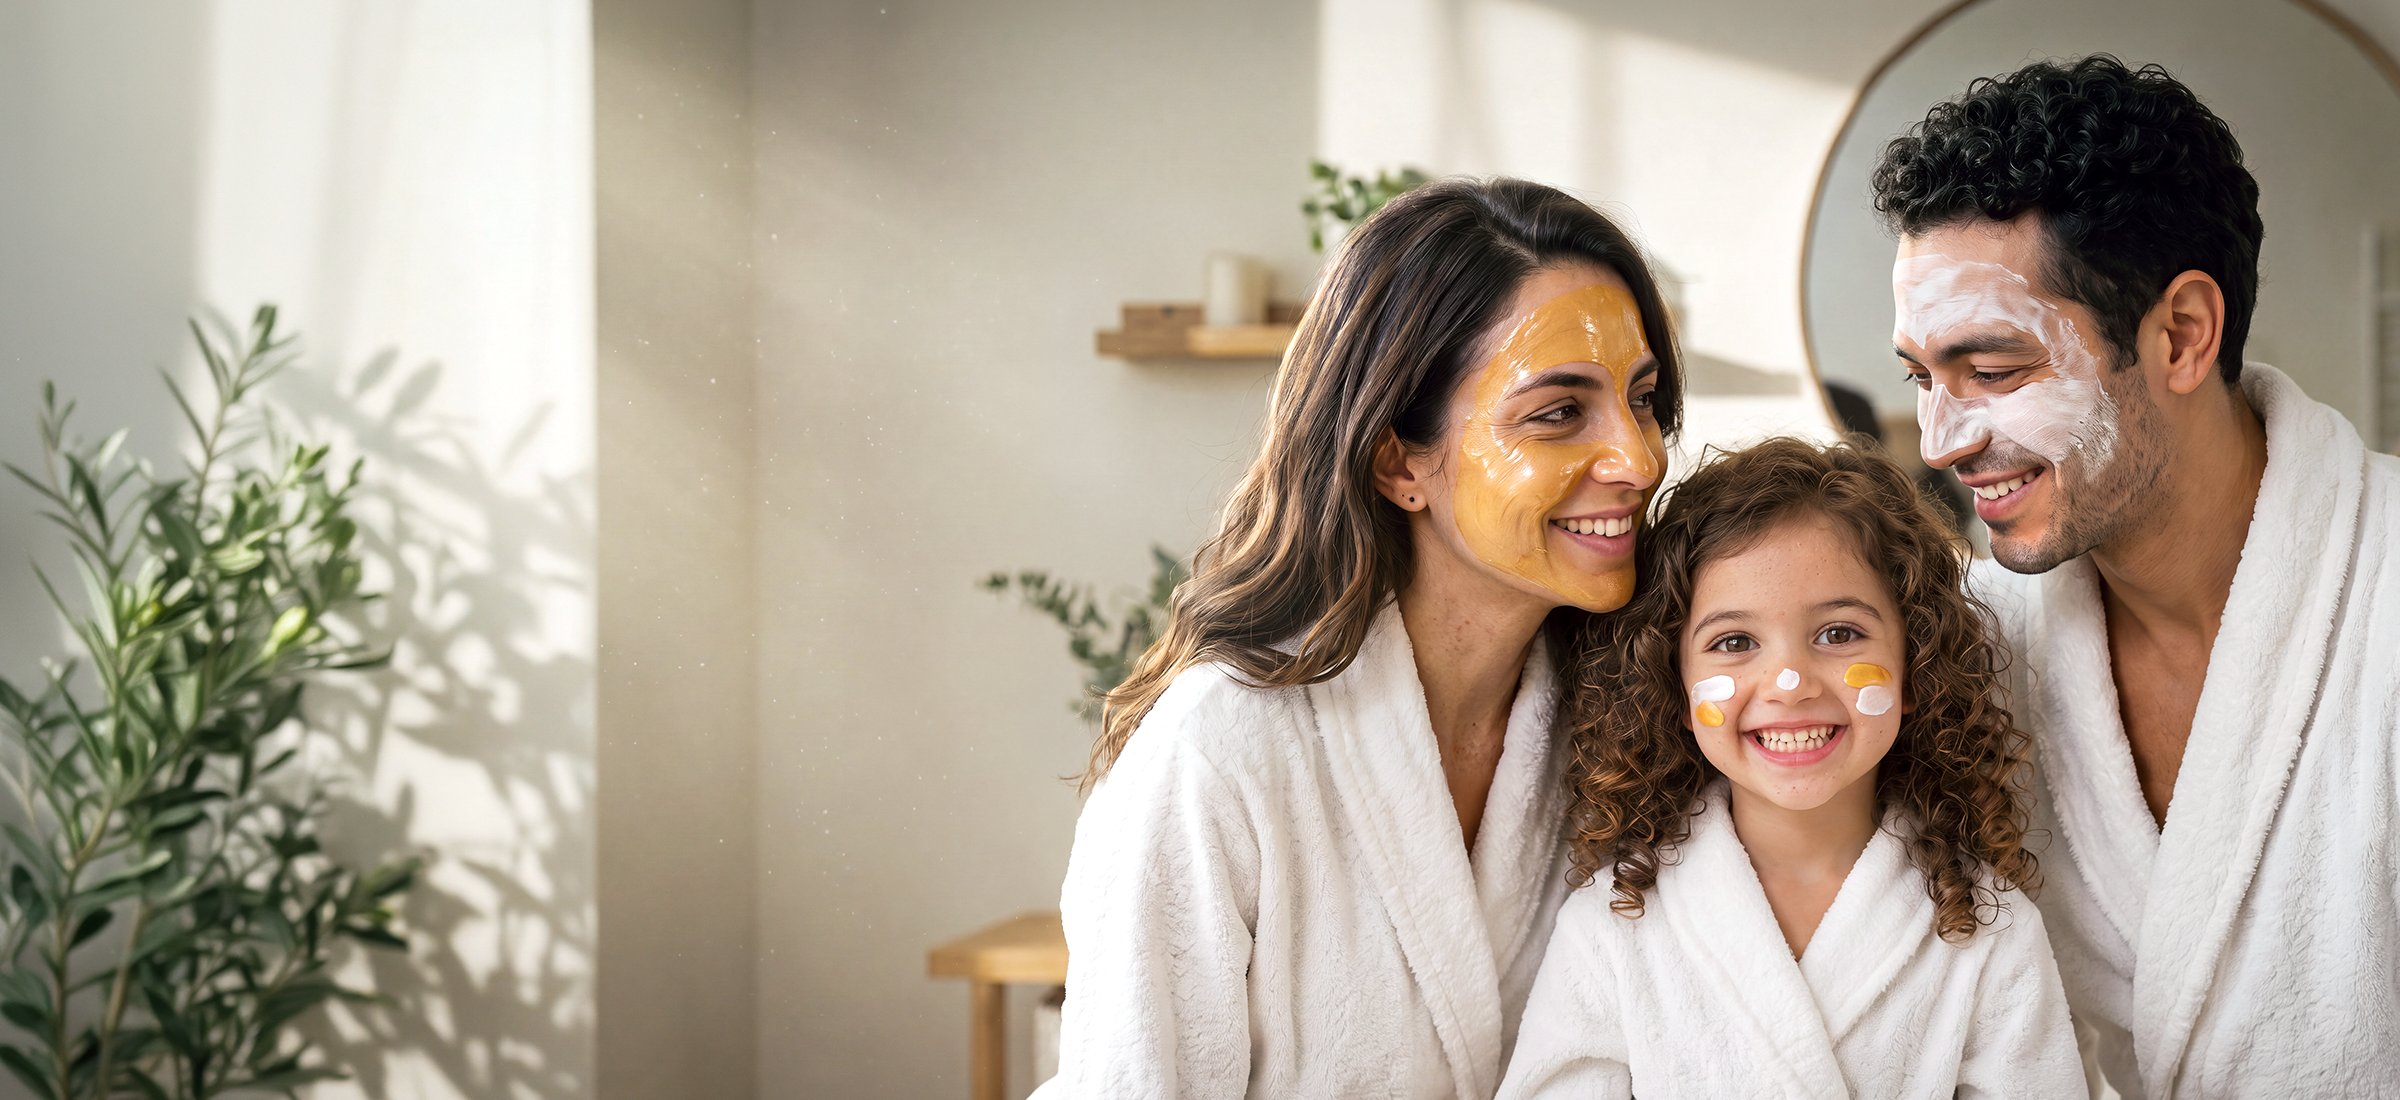
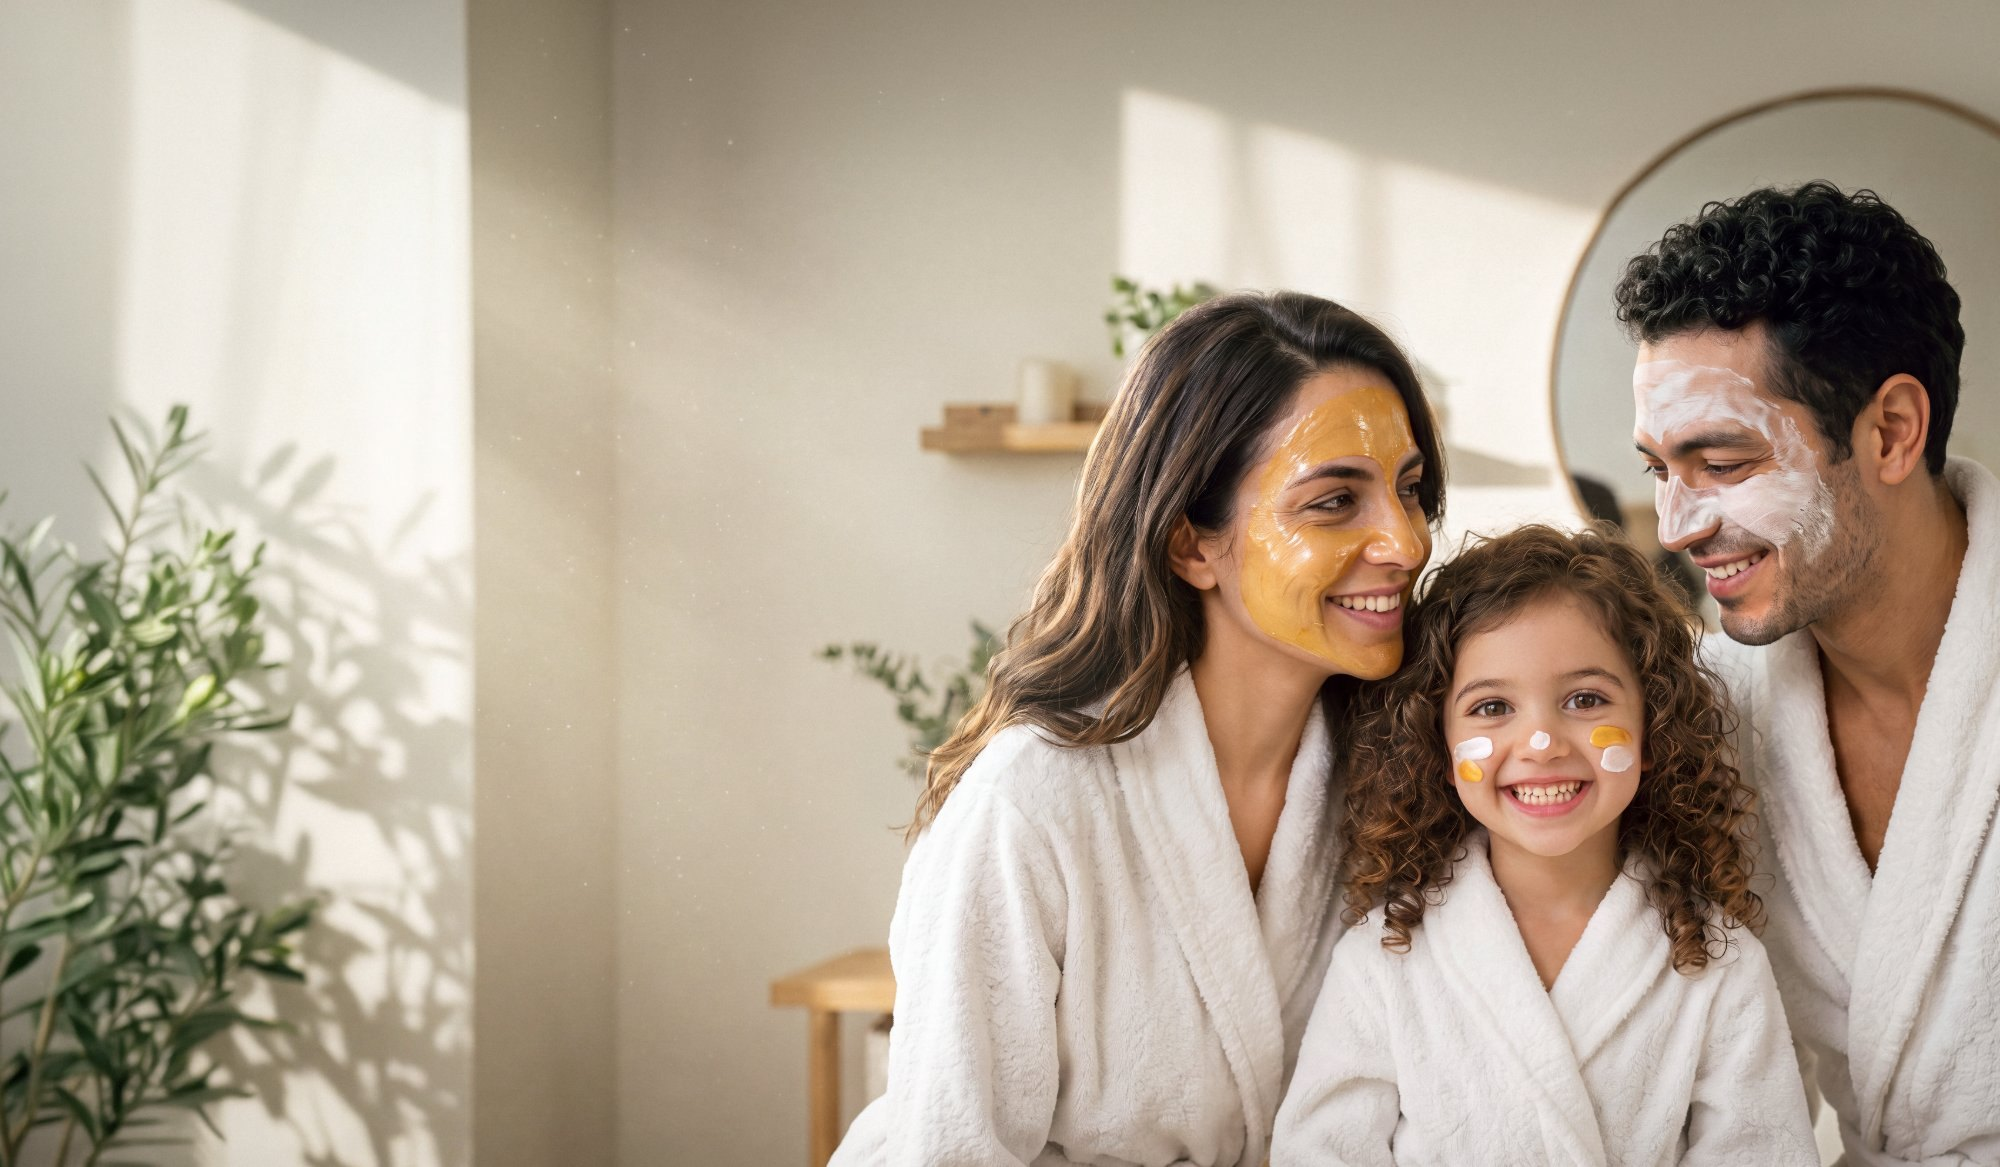
Nouvelles images slides 2 et 3

diff --git a/index.html b/index.html
@@ -158,7 +158,7 @@
     </article>
 
     <article class="hero-slide" data-theme="dark" aria-label="3 sur 3" aria-hidden="true">
-      <div class="hero-bg" style="--pos: 100% 60%; --pos-m: 66% 62%"><img src="assets/img/hero-3.jpg" alt="Produits Labo Nedjma sur une pierre" loading="lazy"></div>
+      <div class="hero-bg" style="--pos: 100% 60%; --pos-m: 72% 60%"><img src="assets/img/hero-3.jpg" alt="Produits Flux Care, Flux Care Men et Flux de Passion sur fond bleu nuit" loading="lazy"></div>
       <div class="container hero-content">
         <p class="hero-kicker"><span></span>Fabriqué en Algérie</p>
         <h2 class="hero-title"><span class="line"><span>Formulé, fabriqué</span></span><span class="line"><span>et <em>conditionné chez nous</em>.</span></span></h2>
